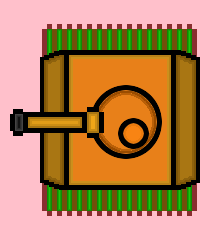
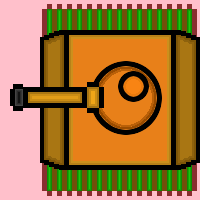
Poprawiona grafika(rozmiar) oraz metoda Rysuj w Czolg.cs

diff --git a/src/Czolg.cs b/src/Czolg.cs
@@ -112,8 +112,8 @@ namespace Rudy_103.src
             //Tutaj jest cos nie tak bo nie dokonca Wymiary dzialaja, 
             //50, 50 to jest rozmiar prostokata ktory jest wyswietlany
             //240, 240 jest to rozmiar obrazka, ktory jest przeskalowywany do 50, 50
-            g.DrawImage(obrazy[(int)kierunek], new Rectangle(Wymiary.X - pozycja_kamery.X, Wymiary.Y - pozycja_kamery.Y, 50, 50), 0, 0,
-                        240, 240, GraphicsUnit.Pixel, transparentPink);
+            g.DrawImage(obrazy[(int)kierunek], new Rectangle(Wymiary.X - pozycja_kamery.X, Wymiary.Y - pozycja_kamery.Y, Wymiary.Width, Wymiary.Height), 0, 0,
+                        obrazy[(int)kierunek].Width, obrazy[(int)kierunek].Width, GraphicsUnit.Pixel, transparentPink);
             if (pocisk != null) pocisk.Rysuj(g, pozycja_kamery, transparentPink);
         }
           

diff --git a/src/Fabryka.cs b/src/Fabryka.cs
@@ -90,6 +90,7 @@ namespace Rudy_103.src
         public static Gracz ProdukujDomyslnegoGracza(System.Reflection.Assembly execAssem)
         {
             Gracz player = new Gracz(100, 100, 50, 50, 100, 5, 10, 3);
+            
             player.WczytajObrazy(
                 new System.Drawing.Bitmap(execAssem.GetManifestResourceStream(@"Rudy_103.Resources.tank3_up.png")),
                 //new System.Drawing.Bitmap(execAssem.GetManifestResourceStream(@"Rudy_103.Resources.czolg_up_2.png")),
